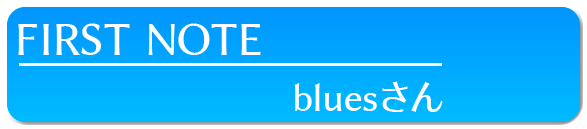
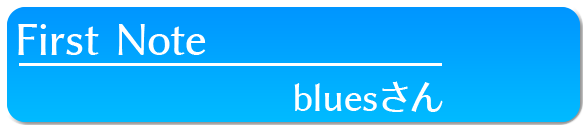
画像差し替え

Changed region(s): [[0.0613, 0.186, 0.46, 0.4341]]

diff --git a/textalive-sample/src/factory/MusicFactory.ts b/textalive-sample/src/factory/MusicFactory.ts
@@ -17,7 +17,7 @@ export function buildMusicInfo(): MusicInfo[] {
                 lyricDiffId: 5133,
             },
         },
-        image: "image1",
+        image: "thumb_natsu",
     };
 
     let first_note: MusicInfo = {
@@ -36,7 +36,7 @@ export function buildMusicInfo(): MusicInfo[] {
                 lyricDiffId: 5093,
             },
         },
-        image: "image2",
+        image: "thumb_first_note",
     };
 
     let kokoro: MusicInfo = {
@@ -55,7 +55,7 @@ export function buildMusicInfo(): MusicInfo[] {
                 lyricDiffId: 5177,
             },
         },
-        image: "image3",
+        image: "thumb_sonokokoro",
     };
 
     let freedom: MusicInfo = {
@@ -74,7 +74,7 @@ export function buildMusicInfo(): MusicInfo[] {
                 lyricDiffId: 5171,
             },
         },
-        image: "image4",
+        image: "thumb_freedom",
     };
 
     let hisoka: MusicInfo = {
@@ -93,7 +93,7 @@ export function buildMusicInfo(): MusicInfo[] {
                 lyricDiffId: 5149,
             },
         },
-        image: "image5",
+        image: "thumb_hisoka",
     };
 
     let usomo: MusicInfo = {
@@ -112,7 +112,7 @@ export function buildMusicInfo(): MusicInfo[] {
                 lyricDiffId: 5123,
             },
         },
-        image: "image6",
+        image: "thumb_usomo",
     };
 
     return [natsu, first_note, kokoro, freedom, hisoka, usomo];
